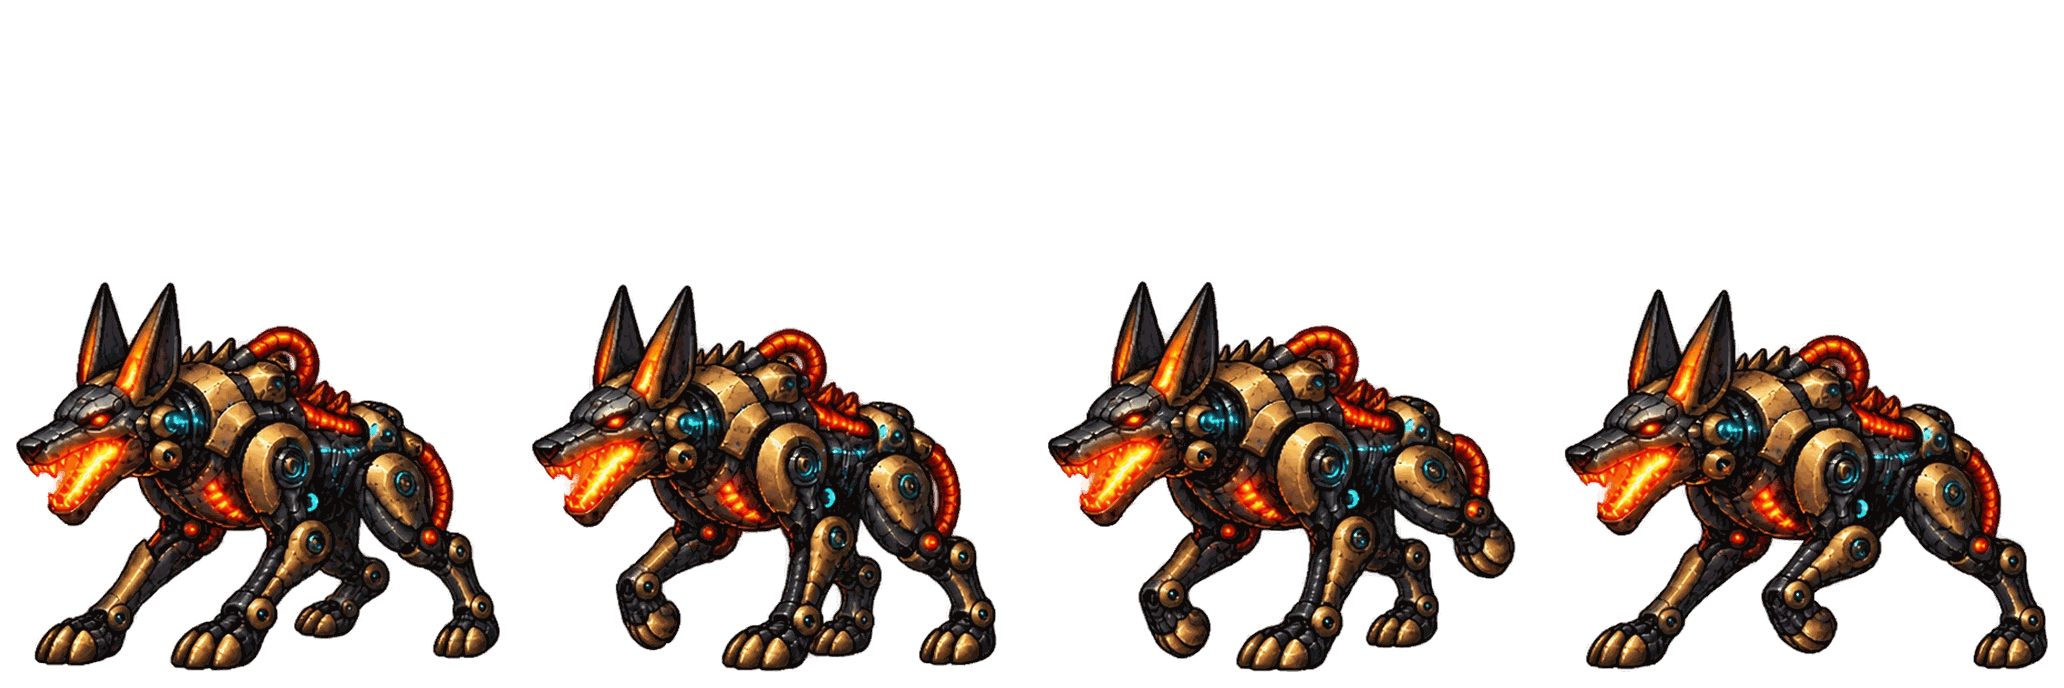
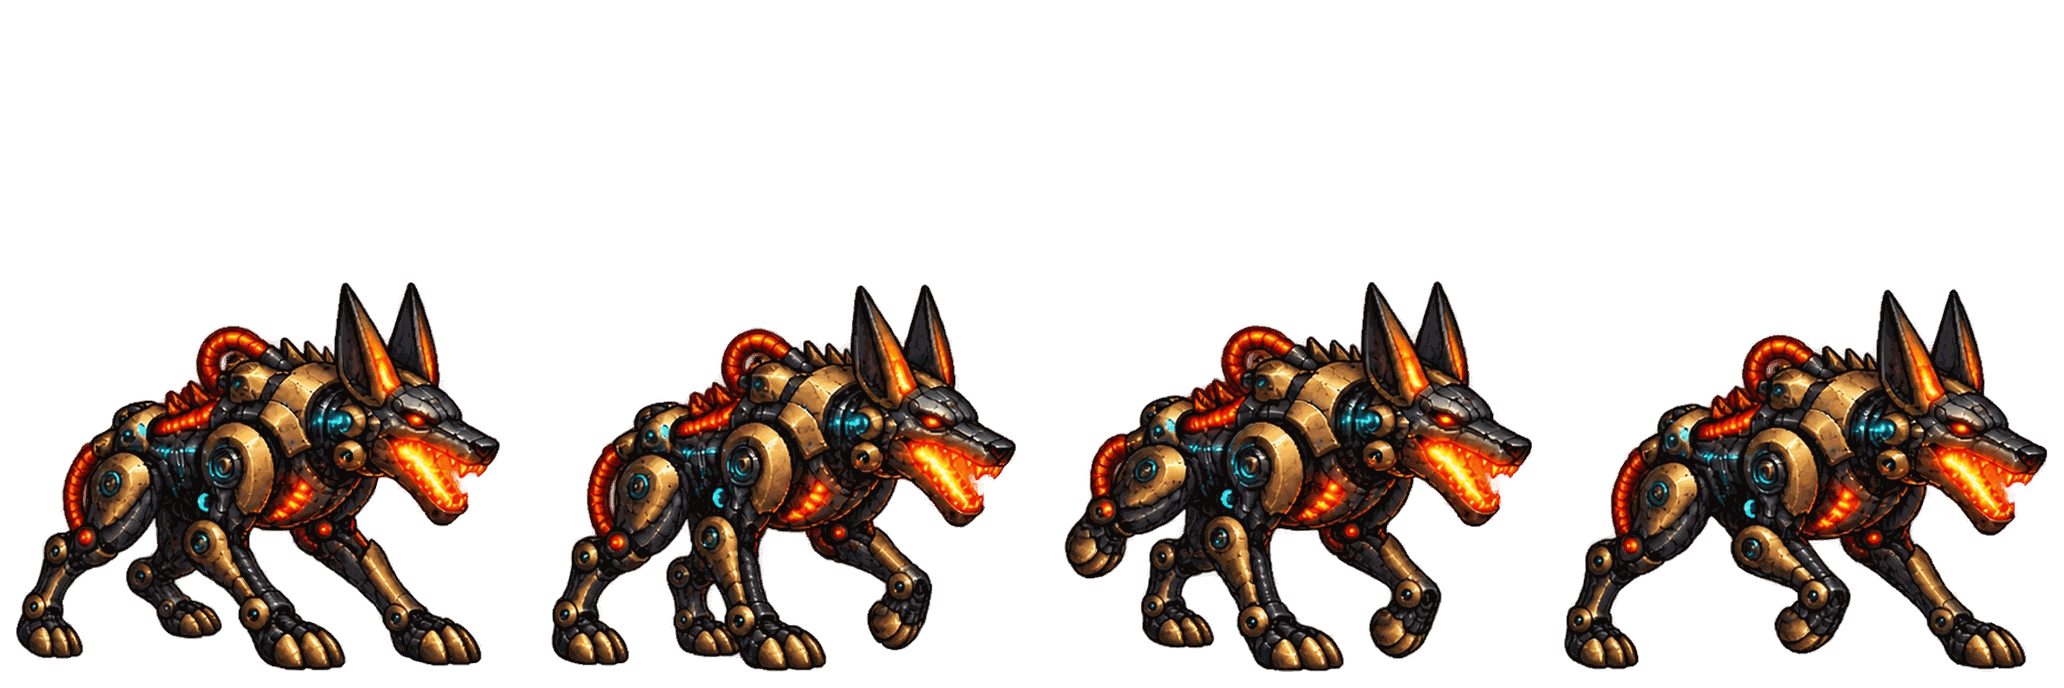
Round 257: Briar Sentinel walk; Ember Jackal faces the right way (#37)
Claude-Session: https://claude.ai/code/session_01XB2RMCaJ1aVVtBjSNk3FhS

diff --git a/assets/elaris-wildlife.js b/assets/elaris-wildlife.js
@@ -32,7 +32,7 @@ const cityMonsterArt=monsterArt;
 // Round 196: a sheet name with a folder ('sky/zenith-roc') is read from assets/monsters/<folder>/;
 // big:true draws it in the larger boss box.
 // Round 200: bump SPRITE_VERSION when sheets are re-cut, so browsers fetch the new images.
-const SPRITE_VERSION='255';
+const SPRITE_VERSION='257';
 function wildlifeSheetUrl(sheet){return 'assets/monsters/'+(sheet.includes('/')?sheet:'elaris/'+sheet)+'.png?v='+SPRITE_VERSION}
 monsterArt=function(id){const animal=ELARIS_WILDLIFE[id]||WILDLIFE_ART[id];if(!animal)return cityMonsterArt(id);return '<span class="monster-sprite wildlife-sprite'+(animal.big?' bloom-tyrant':'')+'" role="img" aria-label="'+animal.name+'" style="background-image:url('+wildlifeSheetUrl(animal.sheet)+');--wildlife-cycle:'+animal.cycle+'"></span>'};
 // Round 249: a boss node's sprite box was square (142px, sized for Neon Aftermath's boss pictures), which

diff --git a/index.html b/index.html
@@ -551,7 +551,7 @@ if(localStorage.getItem(SAVE_KEY))$('resumeBtn').classList.remove('hidden');
 addEventListener('resize',()=>{fitWorld();fitMap();renderTalentConnectors()});fitWorld();
 requestAnimationFrame(loop);
 </script>
-<script src="assets/elaris-wildlife.js?v=round255"></script>
+<script src="assets/elaris-wildlife.js?v=round257"></script>
 <script src="assets/solaris-data.js?v=round232"></script>
 <script src="assets/expansion.js?v=round253"></script>
 <script src="assets/encounter-depth.js?v=round246"></script>

diff --git a/CLAUDE.md b/CLAUDE.md
@@ -4,7 +4,7 @@ Aethercede is a browser card-battler/exploration game in vanilla JS with no
 build step. Open `index.html` directly. `compendium.html` is the card
 gallery; `arena.html` is a standalone prototype and is left untouched.
 
-**Read `CHANGES.md` first.** Every round of work (Round 1 to Round 256) is
+**Read `CHANGES.md` first.** Every round of work (Round 1 to Round 257) is
 logged there with its reasoning. Add a new `## Round N:` entry for each
 change set.
 
@@ -105,6 +105,8 @@ change set.
   `tools/compose_sprite_sheet.py` (Round 224).
   Bump `SPRITE_VERSION` in `assets/elaris-wildlife.js` when sheets change. Sheets drawn on black: key with a
   filled silhouette (Round 234). A creature with battle poses and a walk lists `poses: { attack, hurt, walk }` (`sun-revenant.js`).
+  Creature art faces right (the map flips it when walking left, battle flips it to face the player); mirror
+  left-facing art per frame (Round 257).
 - **Card art** comes from `cardArtPath()` in `assets/cards.js`. The refreshed
   WebP illustrations are listed in `refreshedCardArt`. Status and pending
   prompts: `assets/cards/art-refresh.md` and `tools/art-refresh/`. When art

diff --git a/CHANGES.md b/CHANGES.md
@@ -3496,6 +3496,17 @@ Playtest of Neon Aftermath's three relics (Moon Lens 5,4; Ember Sigil 5,7; Briar
 - Talent descriptions list the per-rank values. Tests updated: round76, chronospire,
   talent-matrix, card-variety, plating-armor.
 
+## Round 257: the Briar Sentinel's new walk; the Ember Jackal faces the right way
+
+- **Briar Sentinel.** The owner sent an eight-frame side-on walk for it (transparent, 4×2). Frames 1, 3,
+  5 and 7 replace its map walk (`assets/monsters/city/briar-sentinel-walk.png`). The source is in
+  `assets/monsters/city/src/briar-sentinel-walk8.webp`. Its battle poses are unchanged.
+- **Ember Jackal fix.** Creature art is drawn facing right: the map flips a sprite when it walks left, and
+  battle flips it to face the player. The Ember Jackal's sheets (Round 252) faced left, so it walked
+  backwards and faced away from you in battle. Each frame of both sheets is now mirrored in place, so
+  the frame order and poses stay the same.
+- `SPRITE_VERSION` 257.
+
 ## Round 256: three favorite decks
 
 - The owner asked for favorite decks: build several and switch with one click, with three slots on the Deck page.
